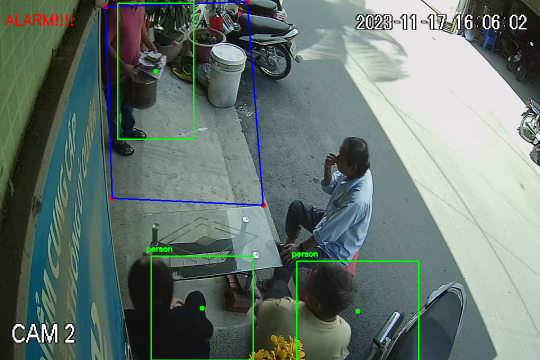
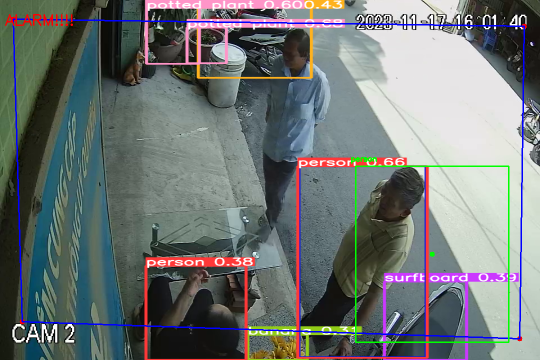
yolov8n

diff --git a/main.py b/main.py
@@ -2,6 +2,8 @@ import time
 import cv2
 import numpy as np
 from yolodetect import YoloDetect
+from ultralytics import YOLO
+import supervision as sv
 link = "D:/BaseProject/test_video6.mp4"
 cap = cv2.VideoCapture(link)
 
@@ -16,8 +18,13 @@ cap.set(4, height)  # ID 4 là chiều cao của video
 points = []
 
 
-model = YoloDetect()
-
+model = YOLO("yolov8s.pt")
+model_detect = YoloDetect()
+box_annotator = sv.BoxAnnotator(
+        thickness=1,
+        text_thickness=1,
+        text_scale=1
+    )
 
 def handle_left_click(event, x, y, flags, points):
     if event == cv2.EVENT_LBUTTONDOWN:
@@ -37,17 +44,20 @@ detect = False
 while True:
 
     ret,frame = cap.read()
-
+    result = model.predict(frame)
+    frame1 = result[0].plot()
     # frame = cv2.flip(frame, 1)
+
     if not ret:
         print("Không thể đọc frame từ camera.")
         break
-    resized_frame = cv2.resize(frame, (width, height))
-    # Ve ploygon
+    resized_frame = cv2.resize(frame1, (width, height))
+    # Ve poloygon
     resized_frame = draw_polygon(resized_frame, points)
 
     if detect:
-        resized_frame = model.detect(frame= resized_frame, points= points)
+        resized_frame = model_detect.detect(frame= resized_frame, points= points)
+
 
     key = cv2.waitKey(1)
     if key == ord('q'):
@@ -57,9 +67,9 @@ while True:
         detect = True
 
     # Hien anh ra man hinh
-    cv2.imshow("Intrusion Warning", resized_frame)
+    cv2.imshow("YOLOv8", resized_frame)
 
-    cv2.setMouseCallback('Intrusion Warning', handle_left_click, points)
+    cv2.setMouseCallback('YOLOv8', handle_left_click, points)
 cap.release()
 # video.stop()
 cv2.destroyAllWindows()

diff --git a/telegram_utils.py b/telegram_utils.py
@@ -1,5 +1,3 @@
-import telegram
-import requests
 import telepot
 def send_telegram(photo_path="alert.png"):
     try:
